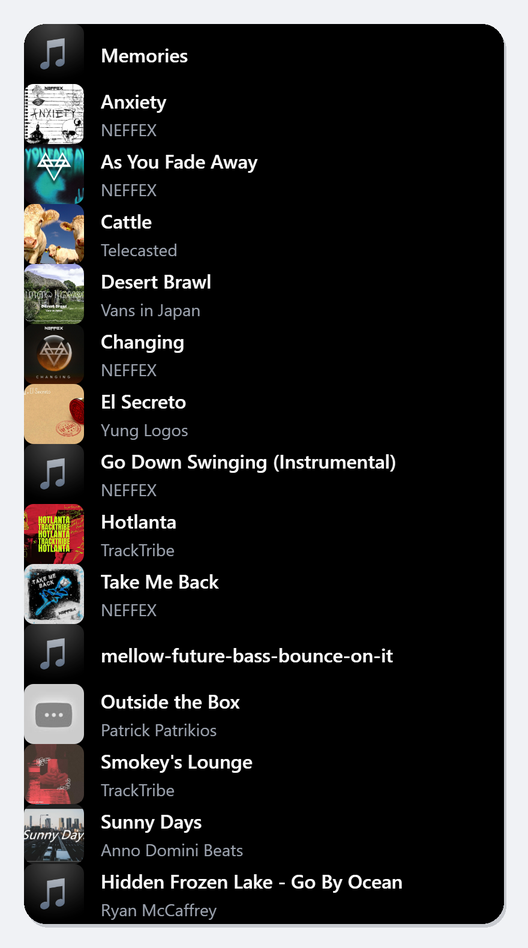
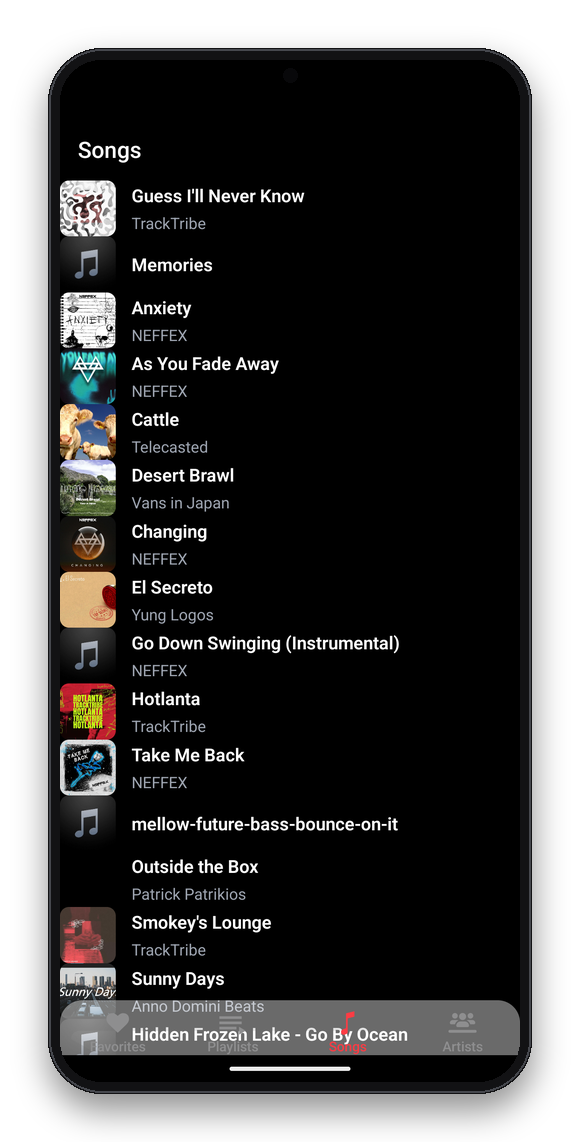
fix: root layout export, Android header and list props; real PNG asset
The root layout had no default export, so release builds crashed on launch. The transparent large header overlapped the list on Android, TracksList forwarded FlatList props to each row, and unknown_artist.png was a JPEG that broke the Android resource compiler.

diff --git a/src/constants/_layout.ts b/src/constants/_layout.ts
@@ -1,5 +1,6 @@
 // import { NativeStackNavigationOptions } from "react-native-screens/lib/typescript/native-stack/types";
 import { NativeStackNavigationOptions } from "@react-navigation/native-stack"
+import { Platform } from "react-native"
 import { colors } from "./tokens"
 
 export const StackScreenWithSearchBar: NativeStackNavigationOptions = {
@@ -8,7 +9,9 @@ export const StackScreenWithSearchBar: NativeStackNavigationOptions = {
         backgroundColor: colors.background,
     },
     headerTintColor: colors.text,
-    headerTransparent: true,
+    // Large transparent headers are an iOS feature; Android gets a solid header.
+    headerTransparent: Platform.OS === 'ios',
+    headerStyle: { backgroundColor: colors.background },
     headerBlurEffect: 'prominent',
     headerShadowVisible: false,
 }

diff --git a/src/app/_layout.tsx b/src/app/_layout.tsx
@@ -1,10 +1,14 @@
 import { Stack } from 'expo-router'
 import { StatusBar } from 'expo-status-bar'
-import { StyleSheet, Text, View } from 'react-native'
 import { SafeAreaProvider } from 'react-native-safe-area-context'
 
 const App = () => {
-	return <SafeAreaProvider></SafeAreaProvider>
+	return (
+		<SafeAreaProvider>
+			<RootNavigation />
+			<StatusBar style="light" />
+		</SafeAreaProvider>
+	)
 }
 
 const RootNavigation = () => {
@@ -14,3 +18,5 @@ const RootNavigation = () => {
 		</Stack>
 	)
 }
+
+export default App

diff --git a/src/components/TracksList.tsx b/src/components/TracksList.tsx
@@ -8,7 +8,8 @@ export const TracksList = ({...flatlistProps}: TracksListProps) => {
 	return (
 		<FlatList
 			data={library}
-			renderItem={({ item: track }) => <TrackListItem track={{ ...track, image: track.artwork }} {...flatlistProps}/>}
+			renderItem={({ item: track }) => <TrackListItem track={{ ...track, image: track.artwork }} />}
+			{...flatlistProps}
 		/>
 	)
 }

diff --git a/src/app/(tabs)/(songs)/index.tsx b/src/app/(tabs)/(songs)/index.tsx
@@ -5,7 +5,7 @@ import { ScrollView, Text, View } from "react-native"
 const SongsScreen = () => {
     return (
         <View style={defaultStyles.container}>
-            <ScrollView>
+            <ScrollView contentInsetAdjustmentBehavior="automatic">
                 <TracksList scrollEnabled={false}/>
             </ScrollView>
         </View>

diff --git a/README.md b/README.md
@@ -8,7 +8,7 @@ reusable track list and a shared design-token system for colors, spacing and typ
 ![Expo](https://img.shields.io/badge/Expo-000020?logo=expo&logoColor=white)
 ![TypeScript](https://img.shields.io/badge/TypeScript-3178C6?logo=typescript&logoColor=white)
 
-<p align="center"><img src="docs/songs.png" alt="Songs tab with the track list" width="300"></p>
+<p align="center"><img src="docs/songs.png" alt="Songs tab running on Android" width="320"></p>
 
 ## Status
 
